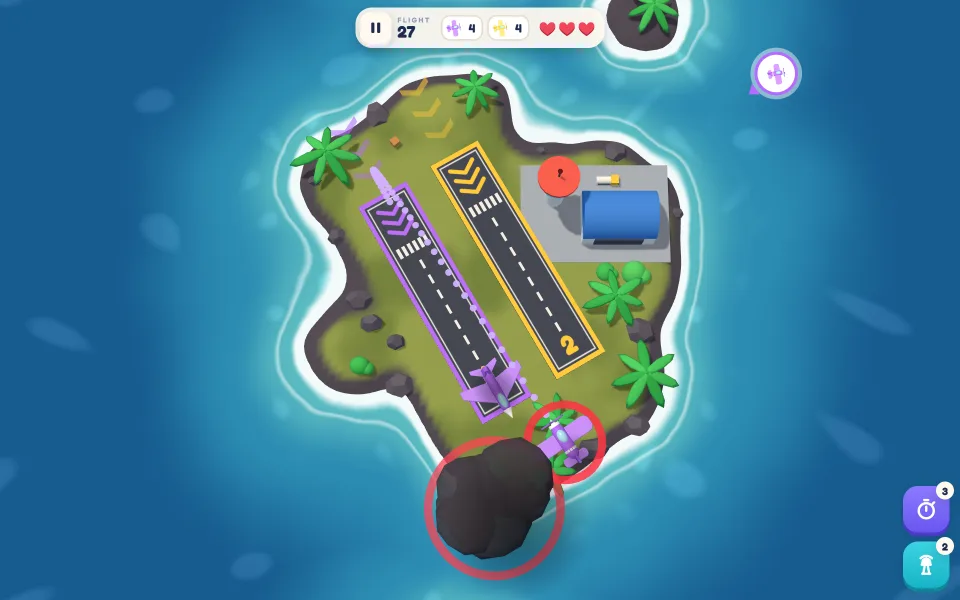
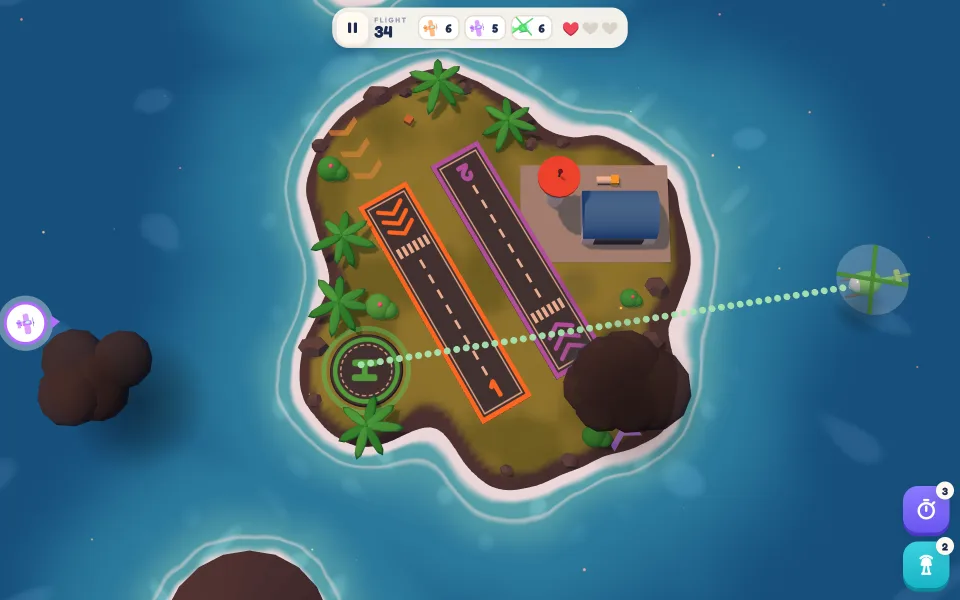
Skyport Isles: new island biomes and screenshots

diff --git a/skyport/index.html b/skyport/index.html
@@ -4,7 +4,7 @@
 <meta charset="utf-8">
 <meta name="viewport" content="width=device-width, initial-scale=1">
 <title>Skyport Isles · SUMAR_TECH</title>
-<meta name="description" content="Skyport Isles is a path-drawing air traffic puzzle: draw a line from each plane to the runway of its colour and land them all safely. 60 flights over 5 islands with helicopters, seaplanes, ash clouds and moving aircraft carriers.">
+<meta name="description" content="Skyport Isles is a path-drawing air traffic puzzle: draw a line from each plane to the runway of its colour and land them all safely. 60 flights over 5 different islands, from tropical beaches and desert dunes to a volcano, a snowy harbour and an autumn naval base, each with its own soundtrack.">
 <meta name="theme-color" content="#1c9be6">
 <meta property="og:type" content="website">
 <meta property="og:title" content="Skyport Isles">
@@ -100,10 +100,12 @@
   <section aria-labelledby="shots-h">
     <h2 id="shots-h">Screenshots</h2>
     <div class="shots">
-      <img src="shot-palm.webp" alt="A blue plane follows its dotted path to the blue runway on Palm Cove" width="960" height="600" loading="lazy">
-      <img src="shot-volcano.webp" alt="A drifting ash cloud flashes a red warning near a plane on Volcano Ridge" width="960" height="600" loading="lazy">
-      <img src="shot-frost.webp" alt="Seaplanes heading for buoy-marked water lanes around snowy Frost Harbor" width="960" height="600" loading="lazy">
-      <img src="shot-fleet.webp" alt="Two aircraft carriers sail beside the island in Fleet Command" width="960" height="600" loading="lazy">
+      <img src="shot-palm.webp" alt="Planes follow their dotted paths to matching runways on tropical Palm Cove" width="960" height="600" loading="lazy">
+      <img src="shot-desert.webp" alt="Helicopters head for the helipad on the golden desert island of Sandstone Dunes" width="960" height="600" loading="lazy">
+      <img src="shot-volcano.webp" alt="Ash clouds and glowing embers over Volcano Ridge at sunset" width="960" height="600" loading="lazy">
+      <img src="shot-frost.webp" alt="Snow falls as seaplanes line up with buoy-marked water lanes at Frost Harbor" width="960" height="600" loading="lazy">
+      <img src="shot-fleet.webp" alt="Two aircraft carriers sail beside the autumn island of Fleet Command" width="960" height="600" loading="lazy">
+      <img src="shot-home.webp" alt="The home screen: two flights circle the island, waiting for your guidance" width="960" height="600" loading="lazy">
     </div>
   </section>
 
@@ -120,7 +122,8 @@
   <section aria-labelledby="feat-h">
     <h2 id="feat-h">What's inside</h2>
     <div class="features">
-      <div class="feature"><b>5 islands, 60 flights</b><p>Palm Cove, Coral Keys, Volcano Ridge, Frost Harbor and Fleet Command, each ending in a busy Rush finale.</p></div>
+      <div class="feature"><b>5 islands, 60 flights</b><p>Tropical Palm Cove, desert Sandstone Dunes, smoky Volcano Ridge, snowy Frost Harbor and autumn Fleet Command, each ending in a busy Rush finale.</p></div>
+      <div class="feature"><b>A look and a song for every island</b><p>Each island has its own scenery, weather and music track, and its flights move from bright daylight to golden hour to sunset.</p></div>
       <div class="feature"><b>New aircraft as you go</b><p>Fast jets, helicopters that land on helipads from any direction, and seaplanes that touch down on water lanes.</p></div>
       <div class="feature"><b>Moving carriers</b><p>On Fleet Command the runway itself is sailing. Line up behind the deck and land on the move.</p></div>
       <div class="feature"><b>Boosters</b><p>Slow-Mo halves the speed of every aircraft for a few seconds, and Tower Assist lands a waiting plane for you.</p></div>
